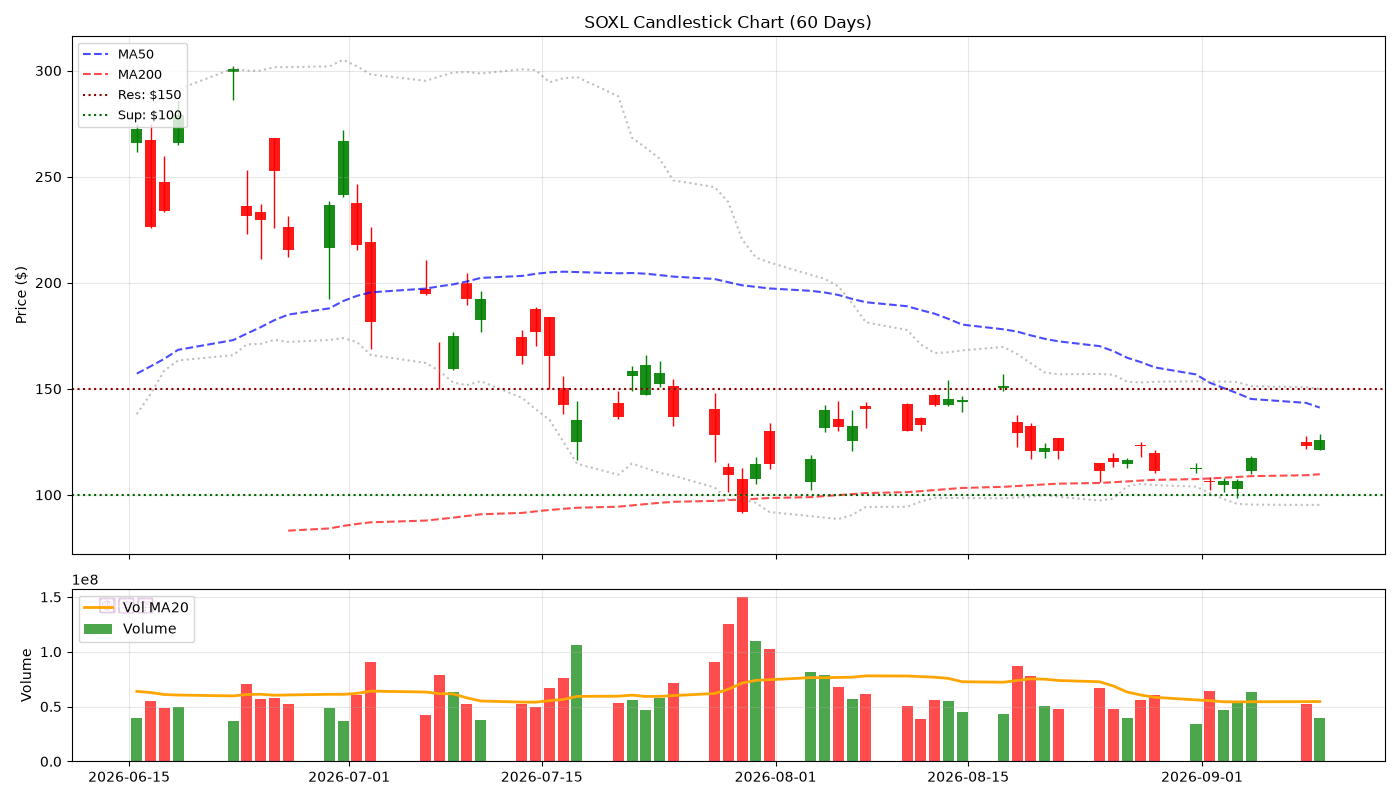
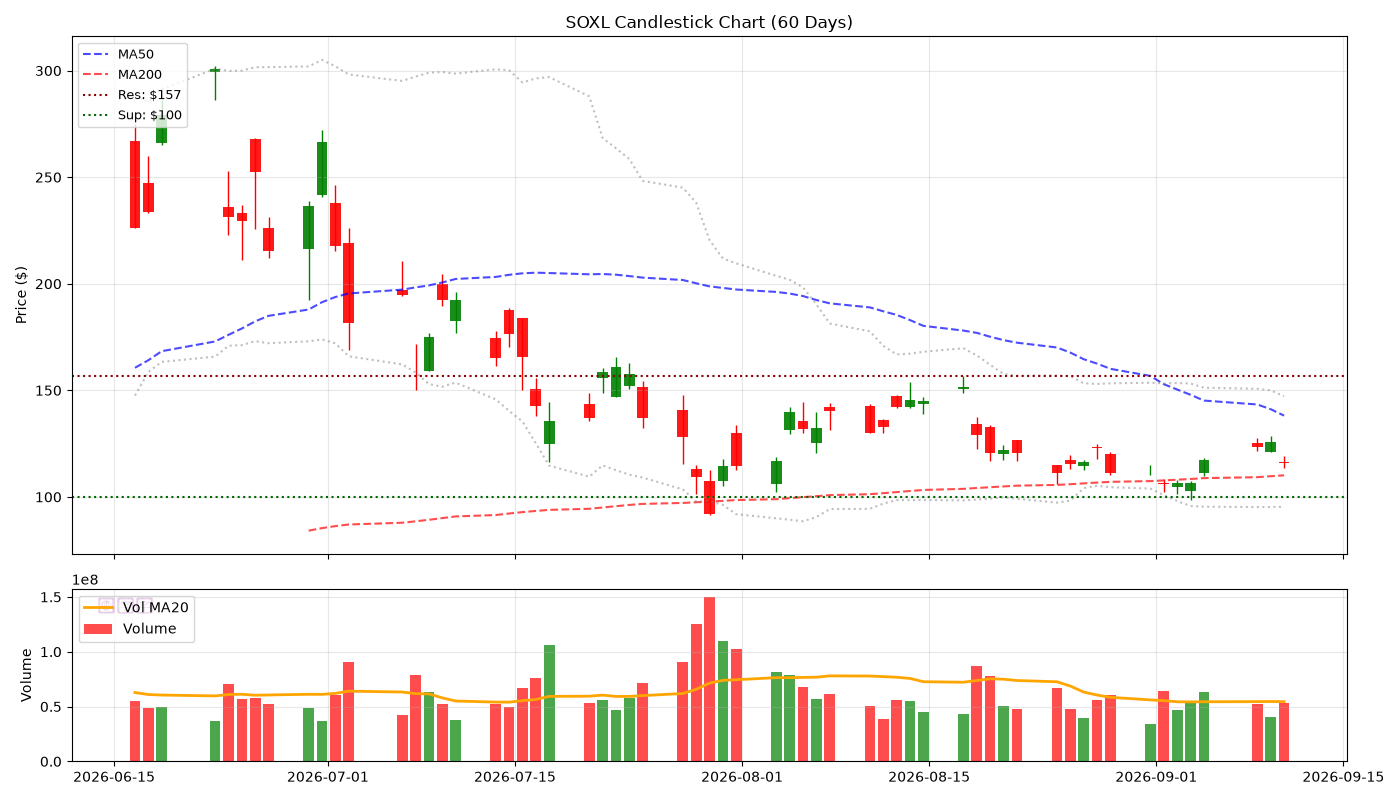
feat(v5): 2026-09-11 Candlestick

diff --git a/reports/2026-09-11.md b/reports/2026-09-11.md
@@ -1,0 +1,85 @@
+# 🕯 Hermes V5 陰陽燭專業日報 - 2026-09-11
+> **生成時間**: 2026-09-11 06:01:14 | **圖表**: 正宗陰陽燭 + Volume
+
+---
+
+## 📊 核心數據
+
+| 股票 | 價格 | 漲跌% | RSI | 成交量 | 阻力 | 支撐 |
+|------|------|-------|-----|--------|------|------|
+| SNDK | $1692.59 | -4.06% | 58.1 | 💧 | $1700 | $1332 |
+| MU | $977.41 | -4.90% | 50.5 | 💧 | $1000 | $888 |
+| SOXL | $115.76 | -8.03% | 45.6 | 💧 | $157 | $100 |
+| TSLA | $363.56 | -1.16% | 56.4 | 💧 | $384 | $350 |
+| APP | $314.49 | +3.09% | 53.4 | 💧 | $335 | $300 |
+| NOW | $131.17 | +0.05% | 51.2 | 💧 | $150 | $118 |
+| CAT | $805.00 | -1.29% | 46.4 | 💧 | $888 | $800 |
+| AMAT | $454.01 | -3.17% | 32.6 | 💧 | $500 | $450 |
+| NOK | $10.62 | -1.30% | 58.1 | 💧 | $11 | $10 |
+| ALAB | $284.53 | -5.33% | 48.2 | 💧 | $300 | $262 |
+
+---
+
+## 📈 個股陰陽燭分析
+
+### SNDK ($1692.59, -4.06%)
+![Candlestick](../charts/SNDK.png)
+
+- **RSI**: 58.1 | **Vol**: NORMAL
+- **關鍵位**: 阻力 $1700.00 | 支撐 $1331.58
+
+### MU ($977.41, -4.90%)
+![Candlestick](../charts/MU.png)
+
+- **RSI**: 50.5 | **Vol**: NORMAL
+- **關鍵位**: 阻力 $1000.00 | 支撐 $887.61
+
+### SOXL ($115.76, -8.03%)
+![Candlestick](../charts/SOXL.png)
+
+- **RSI**: 45.6 | **Vol**: NORMAL
+- **關鍵位**: 阻力 $156.92 | 支撐 $100.00
+
+### TSLA ($363.56, -1.16%)
+![Candlestick](../charts/TSLA.png)
+
+- **RSI**: 56.4 | **Vol**: NORMAL
+- **關鍵位**: 阻力 $384.04 | 支撐 $350.00
+
+### APP ($314.49, +3.09%)
+![Candlestick](../charts/APP.png)
+
+- **RSI**: 53.4 | **Vol**: NORMAL
+- **關鍵位**: 阻力 $335.45 | 支撐 $300.00
+
+### NOW ($131.17, +0.05%)
+![Candlestick](../charts/NOW.png)
+
+- **RSI**: 51.2 | **Vol**: NORMAL
+- **關鍵位**: 阻力 $149.60 | 支撐 $117.59
+
+### CAT ($805.00, -1.29%)
+![Candlestick](../charts/CAT.png)
+
+- **RSI**: 46.4 | **Vol**: NORMAL
+- **關鍵位**: 阻力 $887.91 | 支撐 $800.00
+
+### AMAT ($454.01, -3.17%)
+![Candlestick](../charts/AMAT.png)
+
+- **RSI**: 32.6 | **Vol**: NORMAL
+- **關鍵位**: 阻力 $500.00 | 支撐 $450.00
+
+### NOK ($10.62, -1.30%)
+![Candlestick](../charts/NOK.png)
+
+- **RSI**: 58.1 | **Vol**: NORMAL
+- **關鍵位**: 阻力 $11.16 | 支撐 $9.54
+
+### ALAB ($284.53, -5.33%)
+![Candlestick](../charts/ALAB.png)
+
+- **RSI**: 48.2 | **Vol**: NORMAL
+- **關鍵位**: 阻力 $300.00 | 支撐 $262.45
+
+*Generated by Hermes Agent V5 (Candlestick Pro)*

diff --git a/index.md b/index.md
@@ -1,12 +1,12 @@
 # 🌍 Hermes V5 陰陽燭情報中心
-> **更新**: 2026-09-10 06:02:40
+> **更新**: 2026-09-11 06:01:14
 
 | 股票 | 價格 | 漲跌% | RSI | Vol |
 |------|------|-------|-----|-----|
-| SNDK | $1764.17 | +1.51% | 68.5 | 💤 |
-| MU | $1027.77 | +2.75% | 64.5 | 💤 |
-| SOXL | $125.87 | +2.11% | 54.0 | 💤 |
-| TSLA | $367.81 | -0.10% | 55.7 | 💤 |
-| APP | $305.06 | -2.23% | 46.3 | 💤 |
+| SNDK | $1692.59 | -4.06% | 58.1 | 💤 |
+| MU | $977.41 | -4.90% | 50.5 | 💤 |
+| SOXL | $115.76 | -8.03% | 45.6 | 💤 |
+| TSLA | $363.56 | -1.16% | 56.4 | 💤 |
+| APP | $314.49 | +3.09% | 53.4 | 💤 |
 
-📖 [查看完整陰陽燭報告](reports/2026-09-10.md)
+📖 [查看完整陰陽燭報告](reports/2026-09-11.md)
